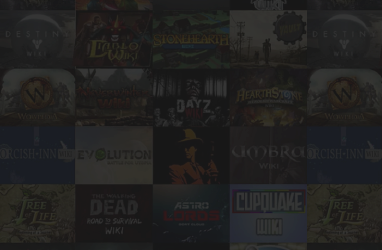
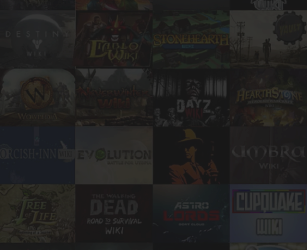
GP Pro Upsell

diff --git a/css/advertisements.css b/css/advertisements.css
@@ -100,3 +100,13 @@ div#footermrec {
 	height: 250px !important;
 	width: 300px !important;
 }
+
+#gp-pro-upsell > img {
+	animation: gpProUpsellAnimation 10s linear infinite;
+	background-image: url("../images/gppro/gpproupsellback.png");
+}
+
+@keyframes gpProUpsellAnimation {
+	from { background-position: 0 0; }
+	to { background-position: -307px 0; }
+}

diff --git a/HydraTemplate.php b/HydraTemplate.php
@@ -175,7 +175,10 @@ class HydraTemplate extends VectorTemplate {
 						<!-- End 300x250 Ad block -->
 
 						<div id="gp-pro-upsell">
-							<img src="/skins/Hydra/images/gppro/gpproupsell.png">
+							<img src="<?php
+							global $wgScriptPath;
+							echo wfExpandUrl($wgScriptPath."/skins/Hydra/images/gppro/gpproupsell.png");
+							?>">
 						</div>
 						<!-- 300x250 Ad block -->
 						<?php if (HydraHooks::getAdBySlot('btfmrec')) { ?>
